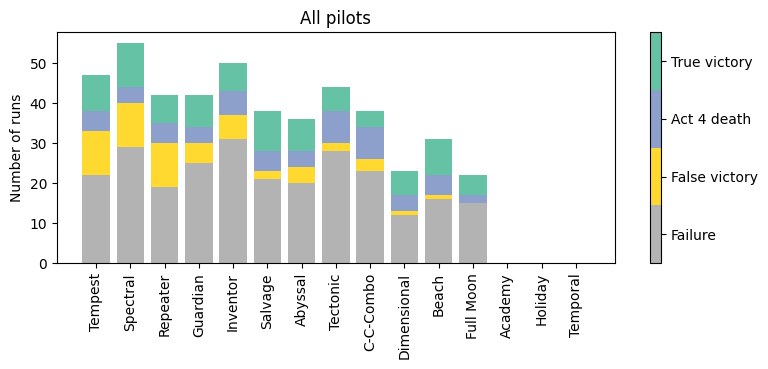
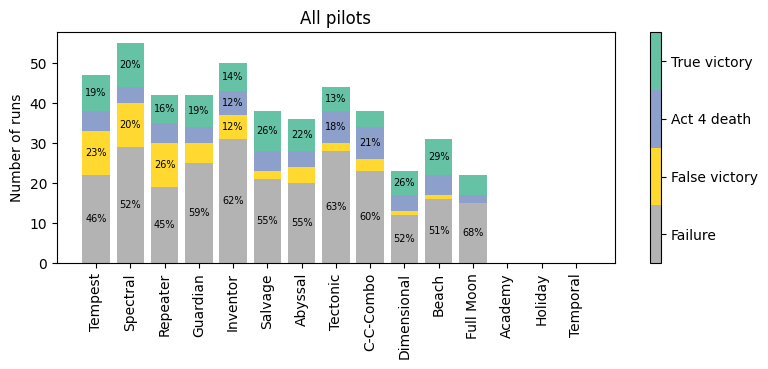
Add successrate to each pack in packsuccess plot

diff --git a/src/StarVadersStats/main.py b/src/StarVadersStats/main.py
@@ -210,12 +210,8 @@ class SVStats:
         if not titleText:
             return
         df_packs = self.df_packs.iloc[df.index]
+        maxruns = df_packs.sum().max()
         fig, ax = plt.subplots()
-
-        fails = []
-        false = []
-        act4 = []
-        wins = []
 
         nSuccess = len(self.df_runs["Success"].unique())
         cmap = plt.get_cmap("Set2_r", lut=nSuccess)
@@ -228,17 +224,21 @@ class SVStats:
 
         for idx, pack in enumerate(df_packs.columns):
             df_pack = df[df_packs[pack]]
-            fails.append(sum(df_pack["Success"] == 0))
-            false.append(sum(df_pack["Success"] == 1))
-            act4.append(sum(df_pack["Success"] == 2))
-            wins.append(sum(df_pack["Success"] == 3))
 
-            ax.bar(idx, fails[-1], color=cmap(0))
-            ax.bar(idx, false[-1], bottom=fails[-1], color=cmap(1))
-            ax.bar(idx, act4[-1], bottom=fails[-1] + false[-1], color=cmap(2))
-            ax.bar(
-                idx, wins[-1], bottom=fails[-1] + false[-1] + act4[-1], color=cmap(3)
-            )
+            bottom = 0
+            for ids in range(4):
+                n = sum(df_pack["Success"] == ids)
+                ax.bar(idx, n, bottom=bottom, color=cmap(ids))
+                if n > maxruns / 10:
+                    ax.text(
+                        idx,
+                        bottom + n / 2,
+                        f"{int(n / len(df_pack) * 100)}%",
+                        ha="center",
+                        va="center",
+                        size=7,
+                    )
+                bottom += n
 
         ax.set_xticks(range(len(df_packs.columns)))
         ax.set_xticklabels(df_packs.columns, rotation=90)
